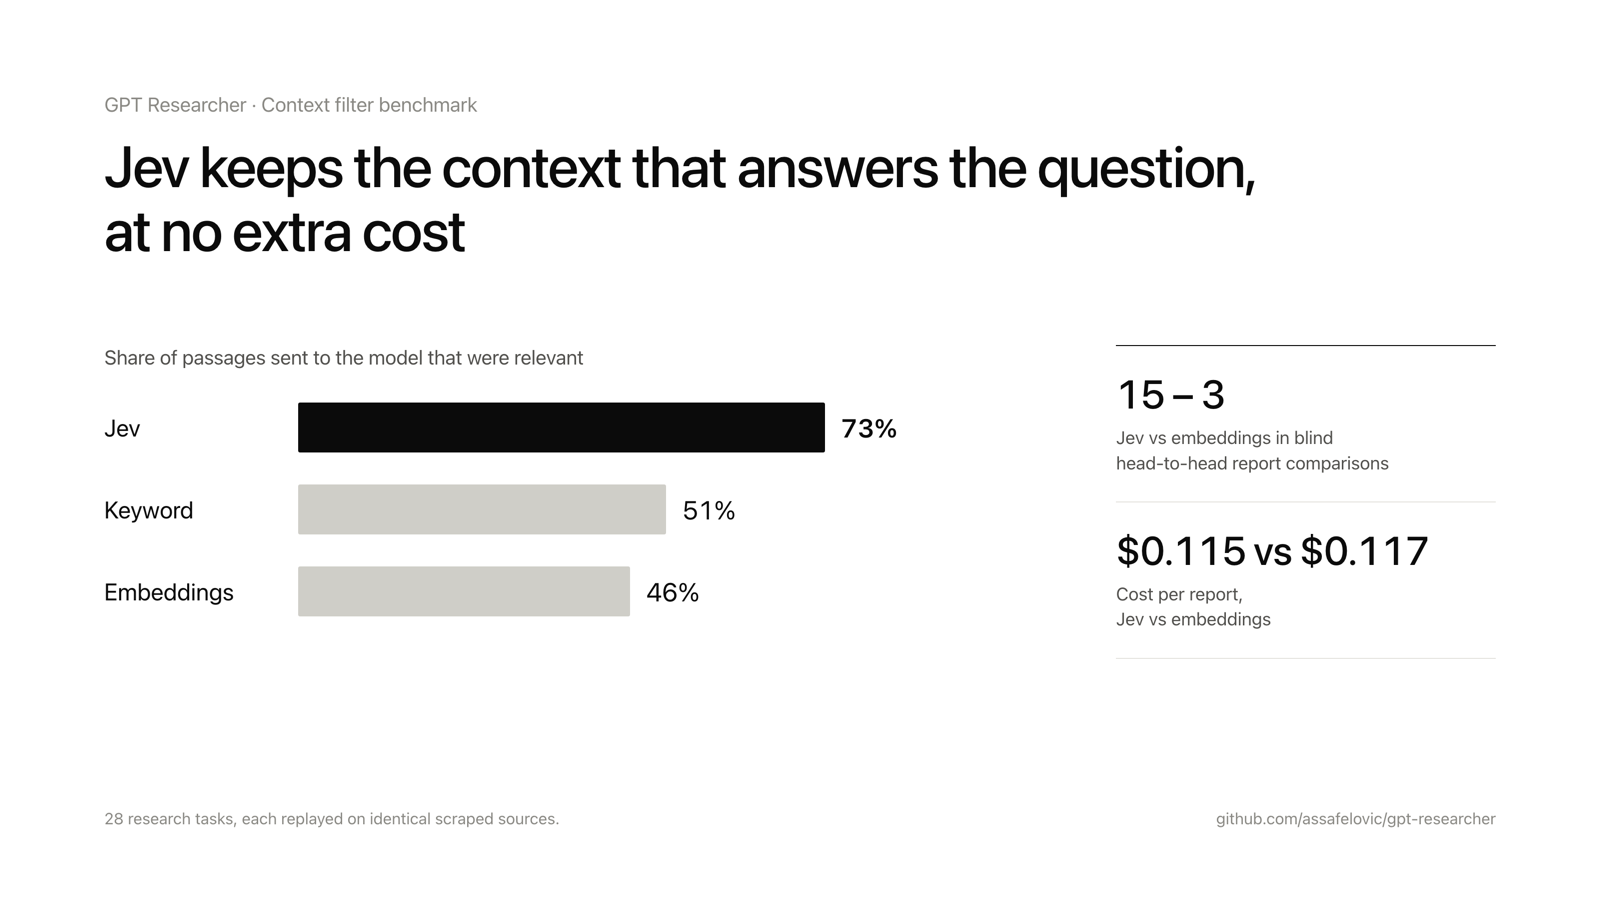
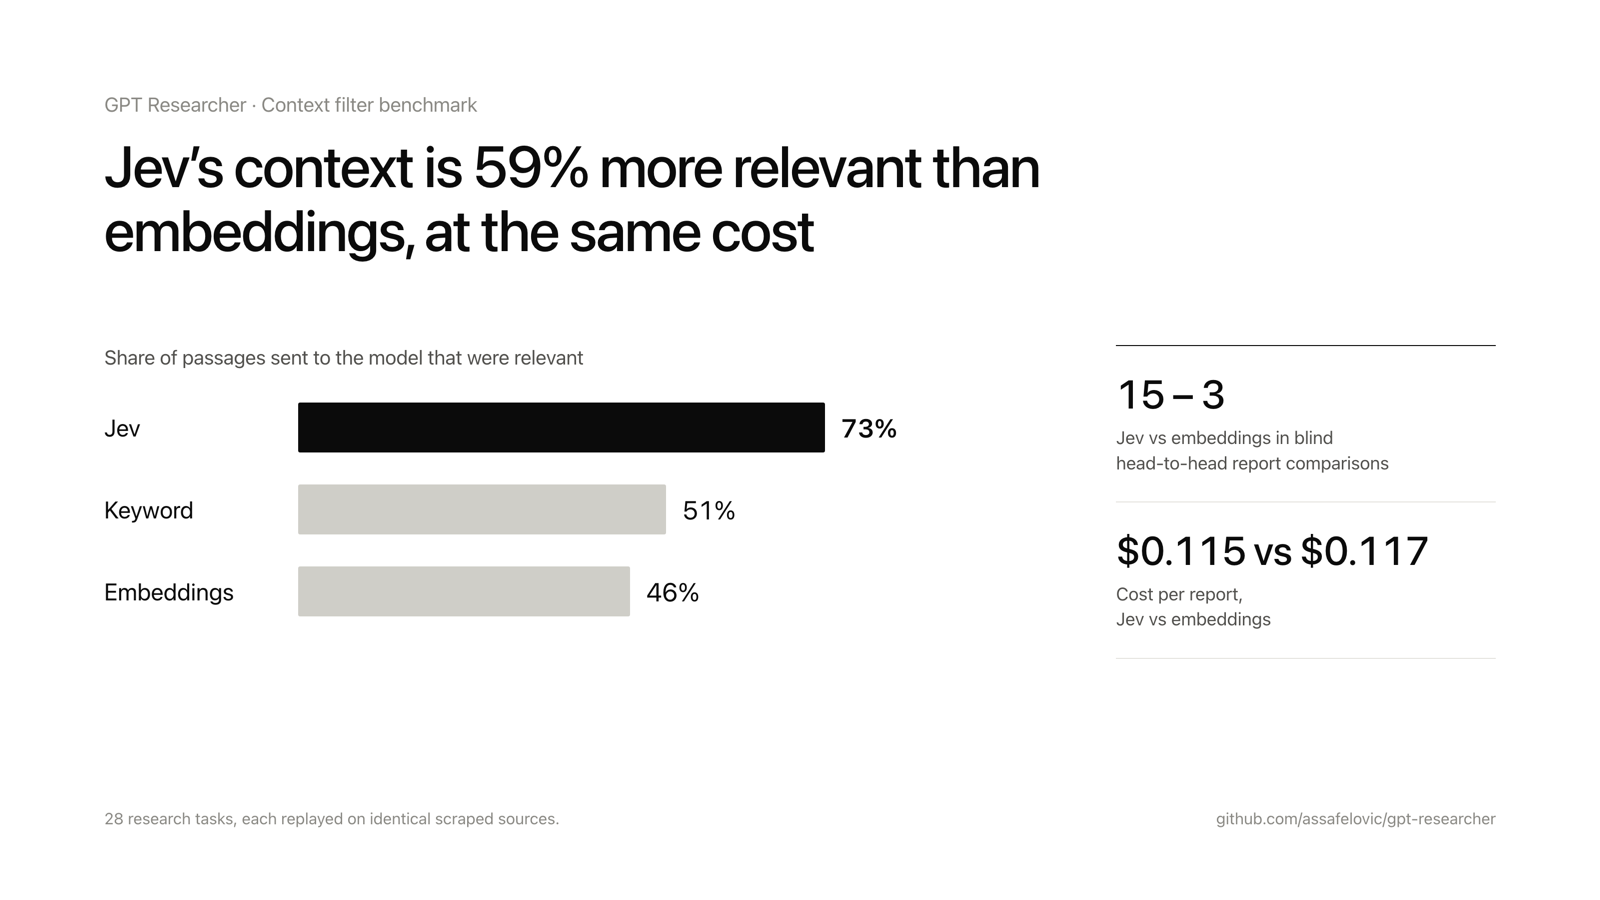
docs: lead with the relevance gain in README and results graphic

Changed region(s): [[0.0625, 0.1556, 0.7812, 0.3111]]

diff --git a/README.md b/README.md
@@ -227,7 +227,7 @@ GPT Researcher now includes Deep Research - an advanced recursive research workf
 
 Every research run scrapes dozens of pages, and only some of each page helps answer the question. Before anything reaches the LLM, GPT Researcher decides which passages to keep. By default it uses **[Jev](https://typesafe.ai/blog/introducing-system-one-models-and-jev)** by TypeSafe, a model that scores how useful each passage is for the question, rather than how similar its words or embedding are.
 
-We benchmarked every option on 28 research tasks, replaying the same scraped sources so that only the filter changed:
+**Jev's context is 59% more relevant than embeddings, at the same cost** (73% of kept passages relevant vs 46%). We benchmarked every option on 28 research tasks, replaying the same scraped sources so that only the filter changed:
 
 | Context filter | Relevant passages kept | Head-to-head vs embeddings | Filter time | Cost per report | Needs |
 |---|---|---|---|---|---|
